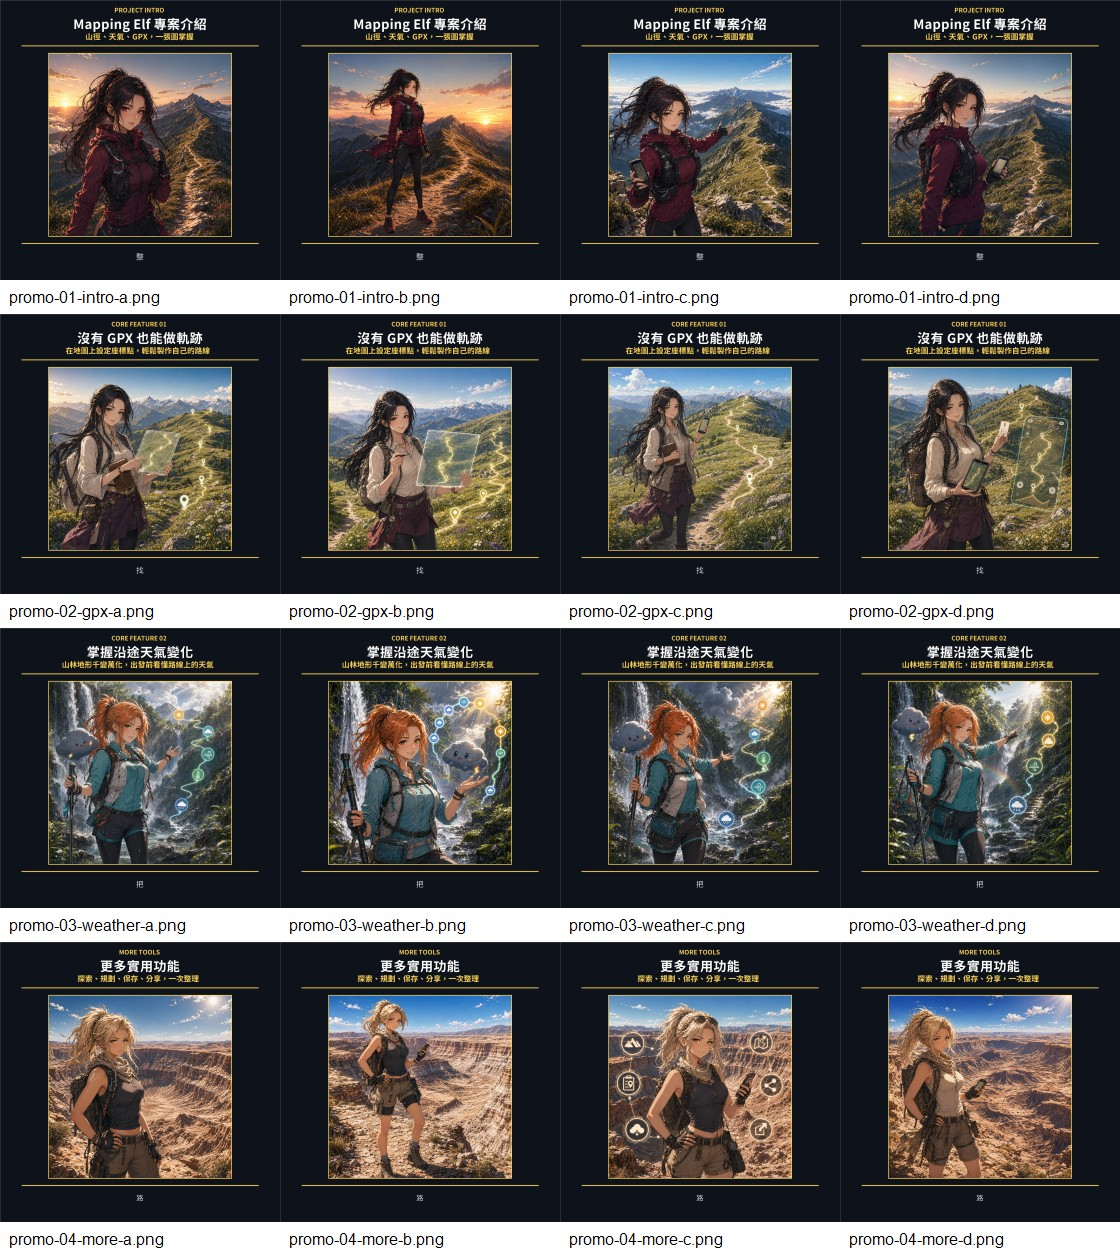
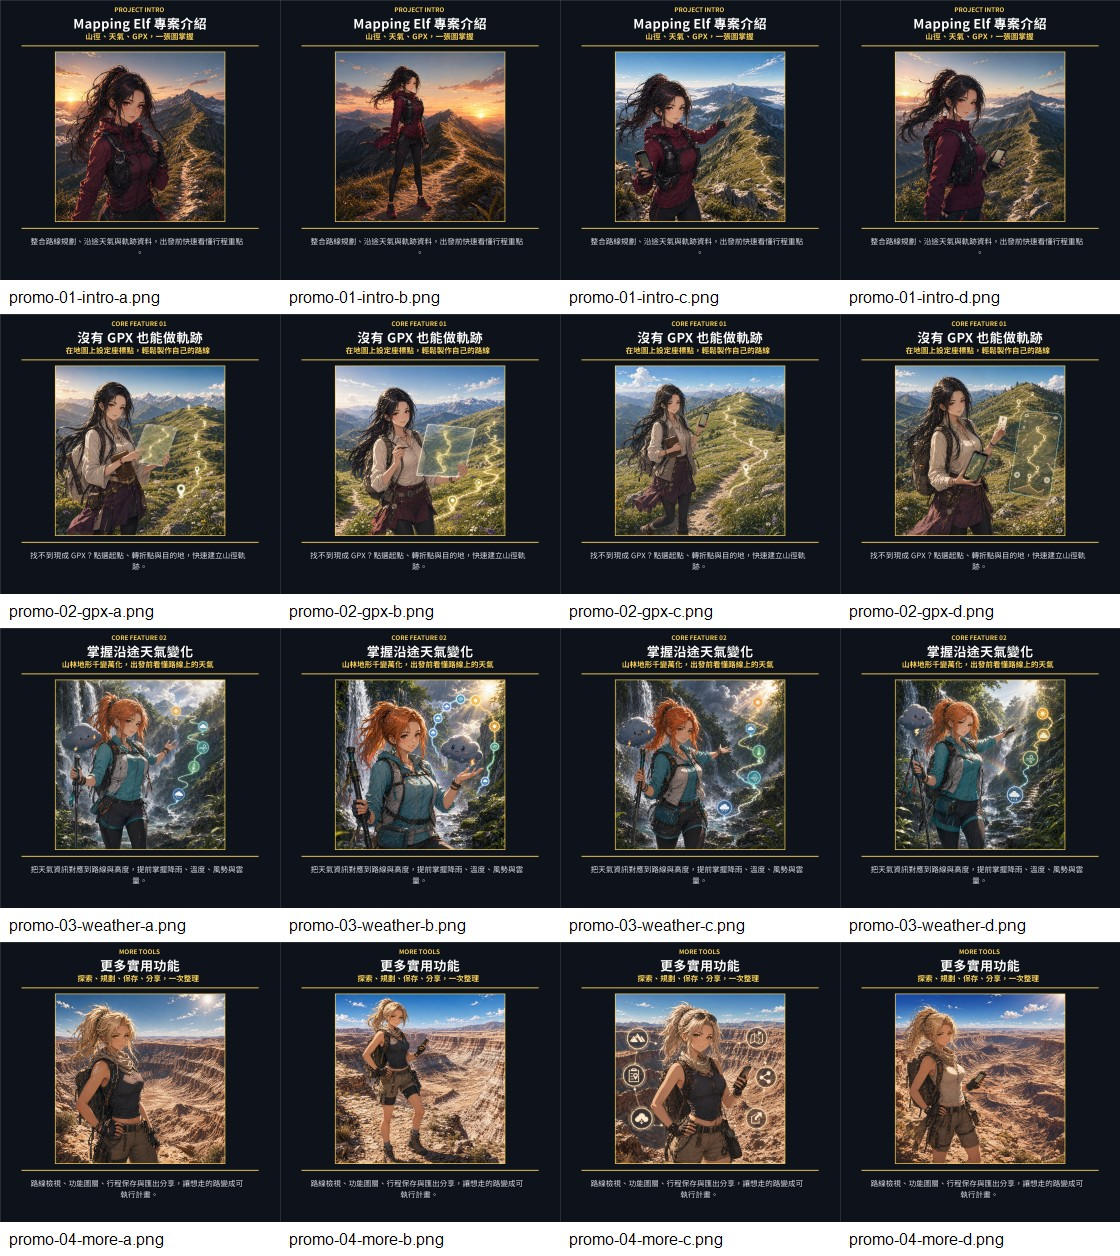
Preserve waypoint anchor while syncing weather times

diff --git a/src/main.js b/src/main.js
@@ -2853,7 +2853,6 @@ function updateWeatherTimeAdjustButtons() {
     if (!thDate || !thTime) return;
 
     let canMinusDay = !locked;
-    let canMinusHour = !locked;
     const canPlus = !locked;
 
     if (strictLinearMode && !locked && i > 0) {
@@ -2861,7 +2860,6 @@ function updateWeatherTimeAdjustButtons() {
       const curMs = colToMs(thDate);
       const prevMs = prevTh ? colToMs(prevTh) : -Infinity;
       canMinusDay = curMs - 86400000 >= prevMs;
-      canMinusHour = curMs - 3600000 >= prevMs;
     }
 
     const dayMinus = thDate.querySelector('.wt-adj-day-minus');
@@ -2871,7 +2869,7 @@ function updateWeatherTimeAdjustButtons() {
 
     if (dayMinus) dayMinus.disabled = !canMinusDay;
     if (dayPlus) dayPlus.disabled = !canPlus;
-    if (hourMinus) hourMinus.disabled = !canMinusHour;
+    if (hourMinus) hourMinus.disabled = locked;
     if (hourPlus) hourPlus.disabled = !canPlus;
   });
 }
@@ -2896,11 +2894,32 @@ function syncIntervalTimesFromWP() {
   enforceTimeOrdering(); // re-check: cascade may have exposed new violations
 }
 
-function syncPaceWeatherTimes() {
+function syncPaceWeatherTimes(anchorIdx = null) {
+  const container = document.getElementById('weather-table-container');
+  let anchorEntry = null;
+  if (container && anchorIdx != null && weatherPoints[anchorIdx]?.isWaypoint) {
+    anchorEntry = {
+      date: container.querySelector(`.wt-th-date[data-idx="${anchorIdx}"] .wt-date-input`)?.value || '',
+      hour: container.querySelector(`.wt-th-time[data-idx="${anchorIdx}"] .wt-time-select`)?.value ?? '8',
+    };
+  }
+
   cascadeWeatherTimes();
+  if (anchorEntry?.date) {
+    const di = container.querySelector(`.wt-th-date[data-idx="${anchorIdx}"] .wt-date-input`);
+    const hs = container.querySelector(`.wt-th-time[data-idx="${anchorIdx}"] .wt-time-select`);
+    if (di) di.value = anchorEntry.date;
+    if (hs) hs.value = String(anchorEntry.hour);
+  }
   enforceTimeOrdering();
   saveWeatherSettings();
   cascadeWeatherTimes();
+  if (anchorEntry?.date) {
+    const di = container.querySelector(`.wt-th-date[data-idx="${anchorIdx}"] .wt-date-input`);
+    const hs = container.querySelector(`.wt-th-time[data-idx="${anchorIdx}"] .wt-time-select`);
+    if (di) di.value = anchorEntry.date;
+    if (hs) hs.value = String(anchorEntry.hour);
+  }
   enforceTimeOrdering();
 }
 
@@ -5741,7 +5760,7 @@ function handleWeatherTimeChange(idx, th) {
   // We save settings after the linear shift so the cascade/enforce logic sees the new waypoint times.
   saveWeatherSettings();
   if (speedIntervalMode) {
-    syncPaceWeatherTimes();
+    syncPaceWeatherTimes(idx);
   } else {
     syncIntervalTimesFromWP();
   }